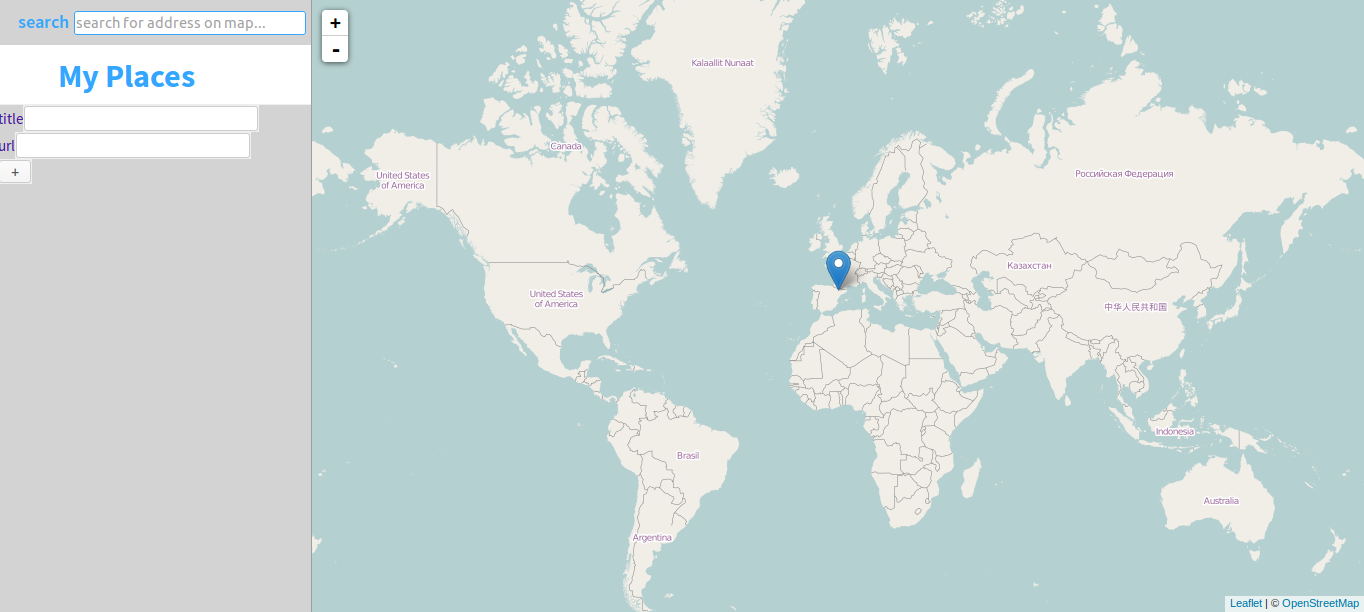
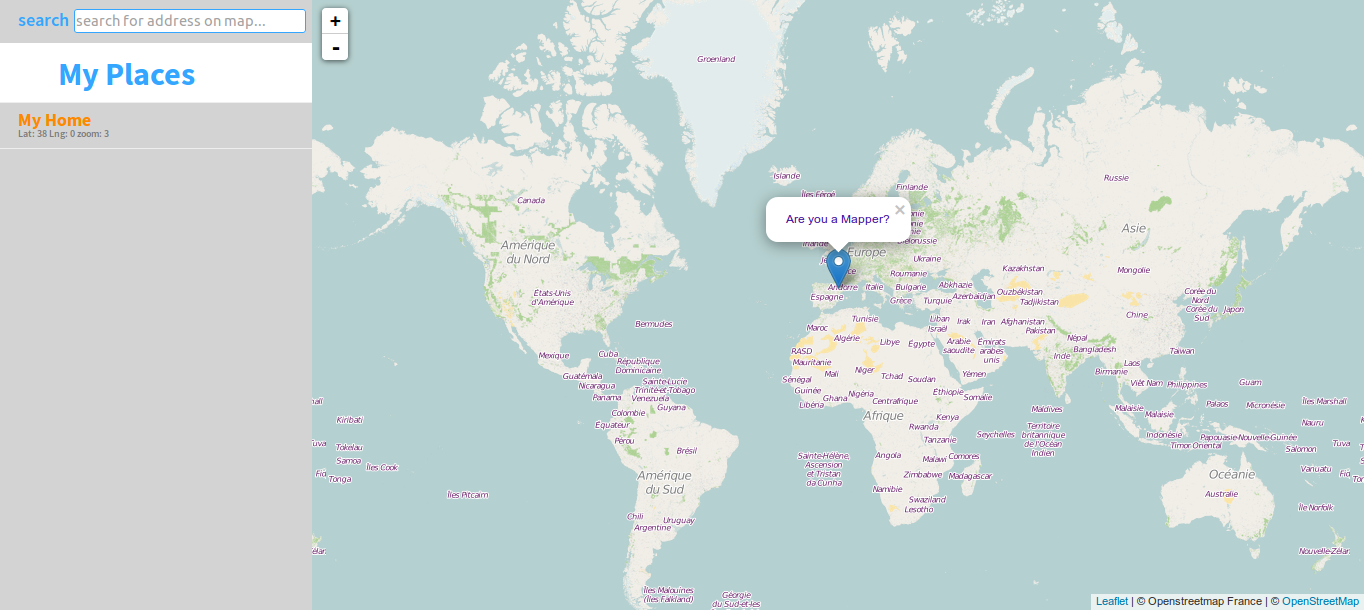
fix SideBar

diff --git a/client/public/styles/light.css b/client/public/styles/light.css
@@ -65,3 +65,37 @@ a:hover { color:#09da0f; }
   line-height:60px;
   padding:0 60px;
 }
+.listings {
+  color: #d20eab;
+  height:100%;
+  overflow:auto;
+  padding-bottom:60px;
+}
+.listings .item {
+  display:block;
+  border-bottom:1px solid #eee;
+  padding:1px 10px;
+  padding-bottom:10px;
+  text-decoration:none;
+}
+.listings .item:hover { background-color:#FFC47F; }
+.listings .item:active { background-color:lightblue;}
+
+.listings .item .title {
+  color:#fe8800;
+  font-size:18px;
+  font-weight:700;
+  line-height:18px;
+  margin-left: 10px;
+  margin-top: 6px;
+  margin-bottom: 0;
+}
+.listings .item .mygps {
+  color:#7d7d7d;
+  font-size:10px;
+  font-weight:600;
+  line-height:10px;
+  margin-left: 10px;
+  margin-top: 6px;
+  margin-bottom: 0;
+}
